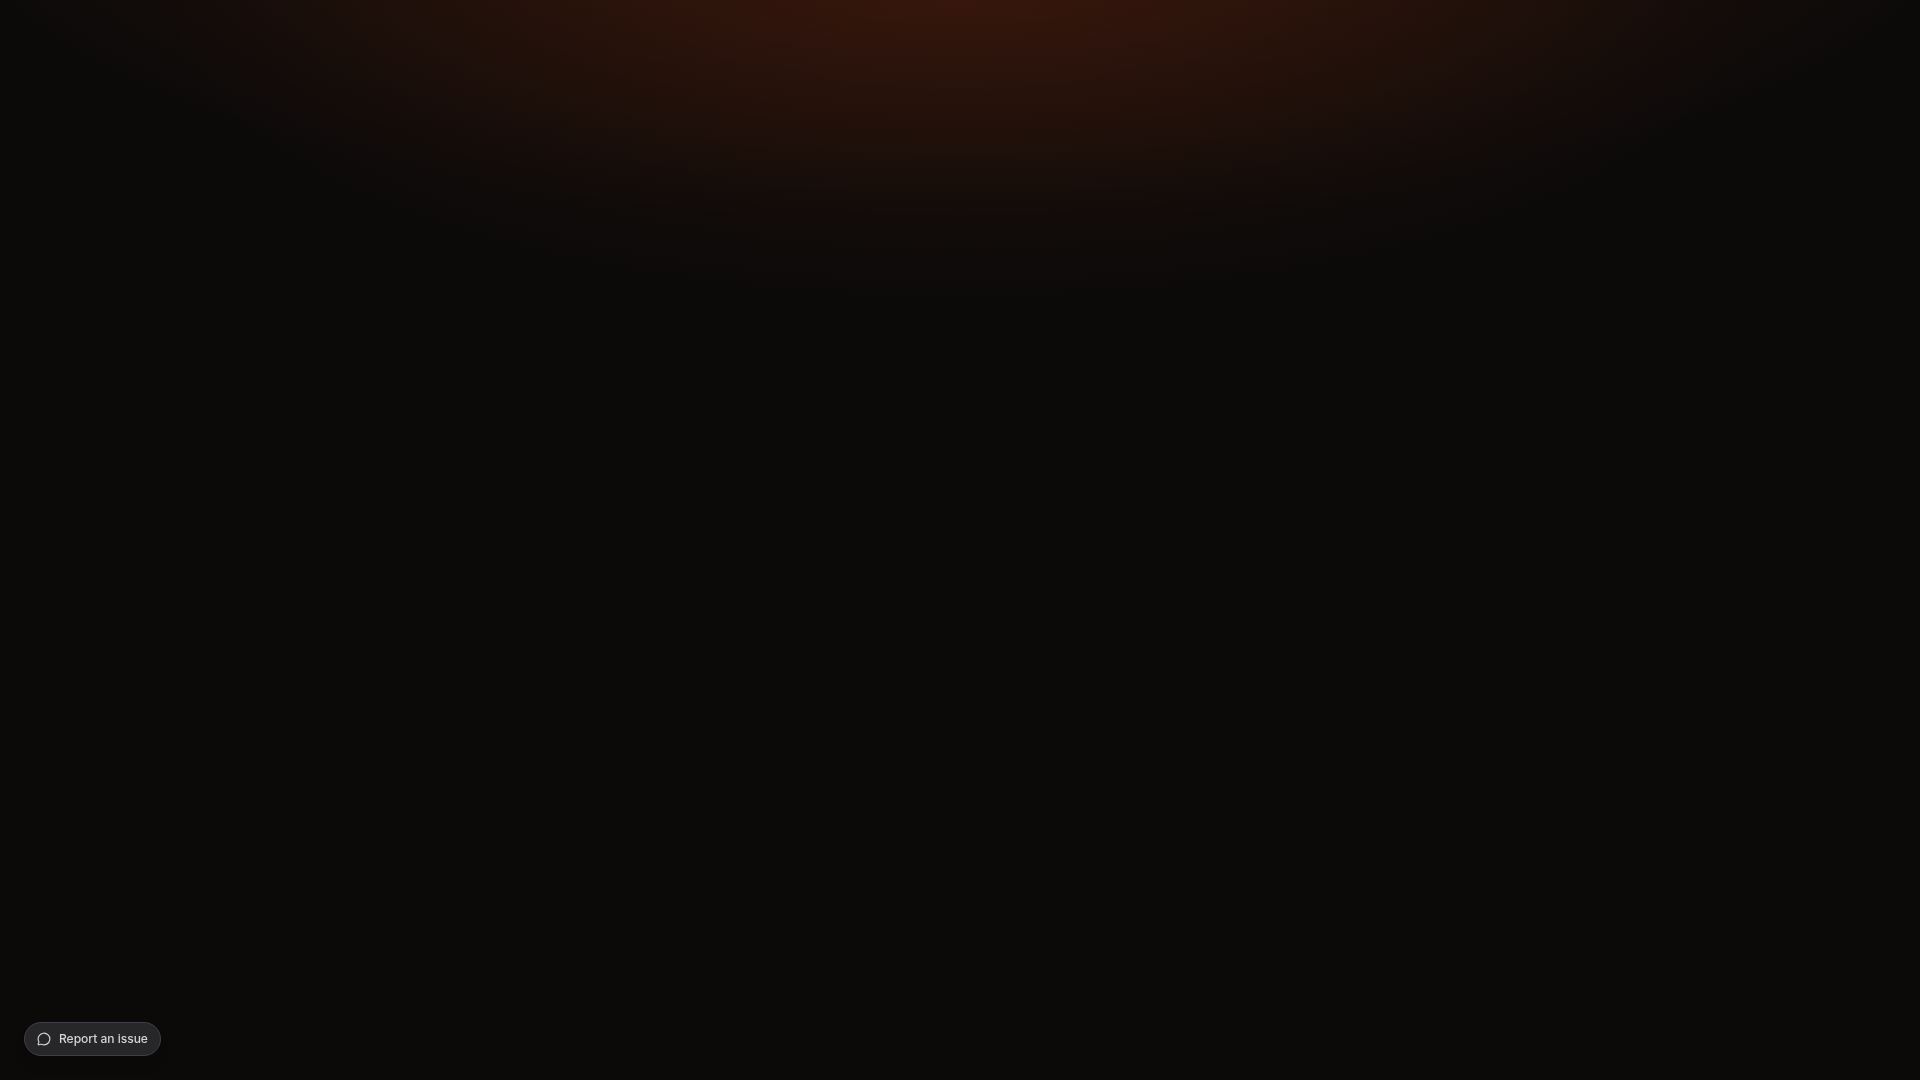
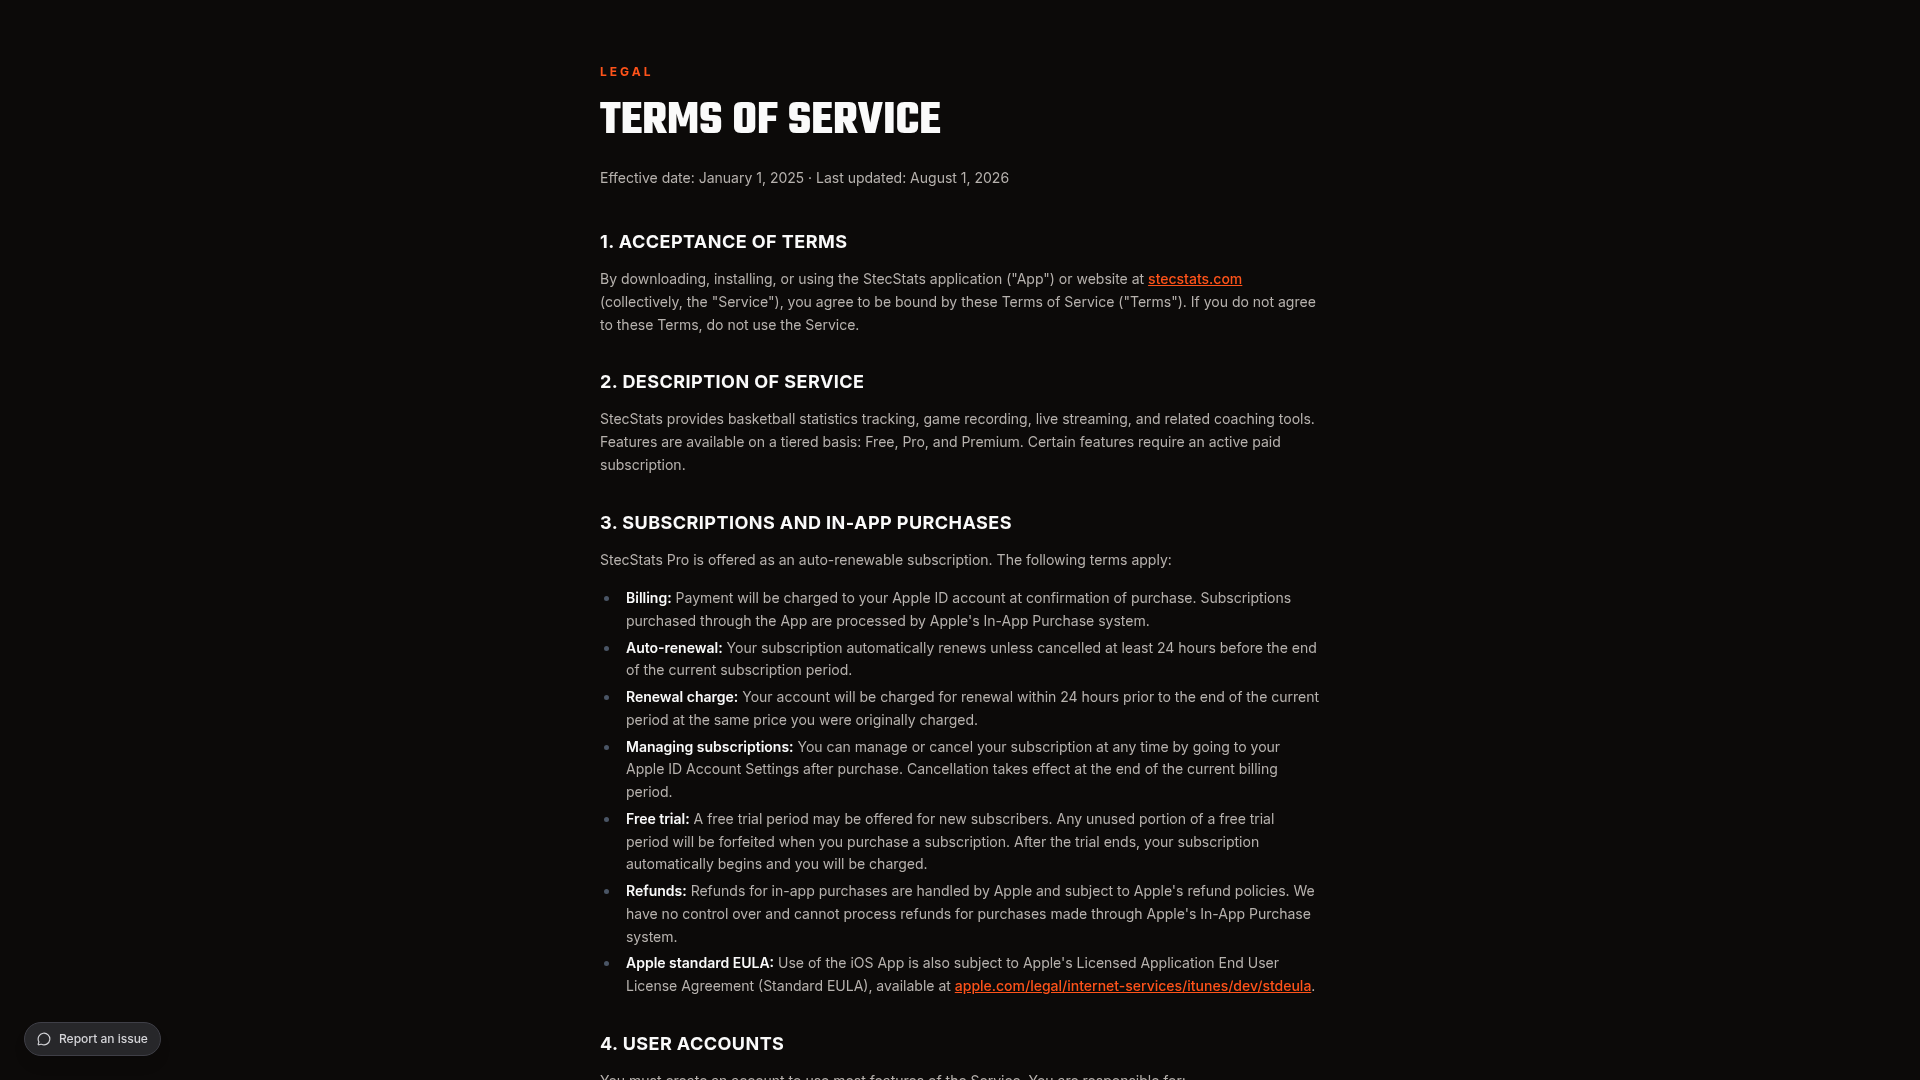
Verify corrected legal pages in production
Replit-Task-Id: 9c43c10a-557d-4b0c-a353-992f7c24fb62
Replit-Merge-Attempt: MergeTask:9c43c10a-557d-4b0c-a353-992f7c24fb62:1:45df63e4

diff --git a/screenshots/legal-pages-production-verification.md b/screenshots/legal-pages-production-verification.md
@@ -1,0 +1,30 @@
+# Production legal-page verification
+
+Verified on August 30, 2026 after confirming the active deployment is public and healthy.
+
+## Public routes
+
+Each route returned HTTP 200 and loaded `/assets/index-BkK1obNZ.js`.
+
+- `https://stecstats.stecco.org/privacy`
+- `https://stecstats.stecco.org/terms`
+- `https://stecstats.com/privacy`
+- `https://stecstats.com/terms`
+- `https://StecStats.replit.app/privacy`
+- `https://StecStats.replit.app/terms`
+
+The deployed bundle contains `support@stecstats.com` 12 times and contains no occurrence of `sstec@stecco.org`.
+
+## Mobile Profile links
+
+The mobile Profile screen opens the canonical HTTPS `/privacy` and `/terms` routes. The focused legal-link Jest suite passes all 10 tests.
+
+## Build checks
+
+- Hoops Stats TypeScript check passed.
+- Hoops Stats production build passed.
+
+Fresh rendered captures are stored in:
+
+- `screenshots/privacy-page-production.png`
+- `screenshots/terms-page-production.png`
